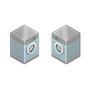
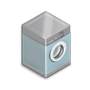
Fix all-enabled mouse dispatch and mobile art contracts

diff --git a/work/patch_mobile_furniture_pack.py b/work/patch_mobile_furniture_pack.py
@@ -654,10 +654,10 @@ VISIBLE_SPECIAL_UPGRADE_ICON_FILES = {
     0x121: "cheat_add_food.png",
     0x122: "cheat_add_food.png",
     0x123: "cheat_no_generation_locks.png",
-    0x124: "cheat_reset_achievements.png",
-    0x125: "cheat_reset_achievements.png",
-    0x126: "cheat_reset_achievements.png",
-    0x127: "cheat_reset_achievements.png",
+    0x124: "MenuBtnTrophy1.png",
+    0x125: "MenuBtnTrophy1.png",
+    0x126: "MenuBtnTrophy1.png",
+    0x127: "MenuBtnTrophy1.png",
     0x128: "cheat_add_coins.png",
     0x129: "cheat_add_coins.png",
     0x12A: "cheat_add_coins.png",
@@ -668,7 +668,7 @@ VISIBLE_SPECIAL_UPGRADE_ICON_FILES = {
     # artwork.  The descriptor must not be aliased through the item id: the
     # store's native image lookup and the added-item draw hook can otherwise
     # resolve the row to an empty cell.
-    0x12E: "cheat_reset_achievements.png",
+    0x12E: "MenuBtnTrophy1.png",
     0x12F: "cheat_fill_house_messes.png",
     0x130: "cheat_fill_yard_weeds.png",
     0x131: "cheat_clean_garden.png",
@@ -10503,24 +10503,29 @@ extern "C" bool __cdecl VF2TryRandomTipHouseHit(
         helper_path.write_text(helper_text.rstrip() + "\n", encoding="ascii")
 
     helper_sym = obj.append_undefined_symbol("_VF2TryRandomTipHouseHit")
-    # push y, x, this; call helper; consume the arguments.  A true result
-    # jumps to the existing stock "return true" epilogue at +0xB2.
+    # The stock point arguments are already on the stack and ECX contains the
+    # ToolTray singleton at this insertion point.  Preserve ECX across the
+    # cdecl helper so the native ToolTray dispatch receives its original this
+    # pointer on the false path.  A true result jumps to the existing stock
+    # "return true" epilogue at +0xB2.
     payload = bytearray(
+        b"\x51"               # preserve ToolTray this
         b"\xFF\x75\x0C"       # push [ebp+0C] (screen y)
         b"\xFF\x75\x08"       # push [ebp+08] (screen x)
         b"\x56"               # push esi (this)
         b"\xE8\x00\x00\x00\x00"
         b"\x83\xC4\x0C"
+        b"\x59"               # restore ToolTray this
         b"\x84\xC0"
         b"\x74\x05"           # false: continue stock path
         b"\xE9\x00\x00\x00\x00"  # true: stock return-true epilogue
     )
     obj.insert_section_bytes(sym.section, insert_off, bytes(payload))
-    obj.append_relocation(sym.section, insert_off + 8, helper_sym, IMAGE_REL_I386_REL32)
+    obj.append_relocation(sym.section, insert_off + 9, helper_sym, IMAGE_REL_I386_REL32)
     # The insertion shifts the old +0xB2 target by len(payload), so the
     # relative displacement remains old_return - insertion_site.
     jmp_disp = sym.value + 0xB2 - insert_off
-    struct.pack_into("<i", obj.buf, sec.raw_ptr + insert_off + 20, jmp_disp)
+    struct.pack_into("<i", obj.buf, sec.raw_ptr + insert_off + 22, jmp_disp)
     obj.write(PATCHED / "theMainScene.obj")
     manifest["random_tip_bottom_house"] = {
         "status": "patched",
@@ -10531,7 +10536,7 @@ extern "C" bool __cdecl VF2TryRandomTipHouseHit(
         "screen_rect_formula": "x=[this+0xA8]+relative; y=[this+0x94]-[this+0x8C]-163+relative",
         "function": "?HandleMouseDown@theMainScene@@IAE?B_NUldwPoint@@@Z",
         "insert_offset": "0x79",
-        "stock_continuation": "false falls through to native HandleMouseDown; true jumps to its existing return-true epilogue",
+        "stock_continuation": "false restores ToolTray ECX and falls through to native HandleMouseDown; true restores ECX then jumps to its existing return-true epilogue",
         "portrait_control_id1_untouched": True,
         "stock_control_id1_untouched": True,
         "string_id_first": "0x09E3",
@@ -12114,14 +12119,14 @@ static void VF2DrawOldestPersonCounter() {
     }
     unsigned int age =
         internalAge / kVF2OldestPersonAgeUnitsPerDisplayedYear;
-    char label[32] = "Oldest: ";
+    char label[32] = "Oldest Villager: ";
     char digits[8];
     int digitCount = 0;
     do {
         digits[digitCount++] = (char)('0' + age % 10);
         age /= 10;
     } while (age != 0 && digitCount < 8);
-    int labelLength = 8;
+    int labelLength = 17;
     while (digitCount > 0) {
         label[labelLength++] = digits[--digitCount];
     }
@@ -14907,6 +14912,10 @@ def patch_graphics_manager(manifest):
             if ENABLE_MOBILE_RENOVATIONS
             else 0,
             "descriptors": mobile_renovation_desc_manifest,
+            # The mobile store consumes these same full-room descriptors at
+            # the native thumbnail scale; room rendering remains 1.0f.
+            "store_icon_scale": 0.12,
+            "store_icon_descriptor_range": "0x56B-0x579",
             "runtime_asset_export": "coordinator-owned; descriptors use Images/MobileRenovations/*.png",
         },
         "holiday_ornament_collection_images": {
@@ -17237,7 +17246,7 @@ def patch_lifetime_generation_counter(manifest):
         "update": "records the highest raw age observed by longevity award and load reconciliation routes",
         "legacy_migration": "existing saves seed from the oldest currently loaded qualifying villager; deceased history before this build cannot be reconstructed",
         "goals_screen": {
-            "label": "Oldest: N",
+            "label": "Oldest Villager: N",
             "helper": "_VF2DrawLifetimeGenerationCounter",
             "position": [100, 42],
             "opposite": "Generation: N at x=760",
@@ -23457,6 +23466,14 @@ def validate_mobile_renovation_renderer_contract(manifest):
             raise RuntimeError("Mobile renovation image descriptor count drifted")
         if len(descriptors.get("descriptors", [])) != MOBILE_RENOVATION_IMAGE_COUNT:
             raise RuntimeError("Mobile renovation image descriptors are incomplete")
+        if descriptors.get("store_icon_scale") != 0.12:
+            raise RuntimeError("Mobile renovation store icon scale drifted from native 0.12f")
+        if descriptors.get("store_icon_descriptor_range") != "0x56B-0x579":
+            raise RuntimeError("Mobile renovation store icon descriptor range drifted")
+        store_helper_path = PATCHED / "vf2_special_upgrade_effects.cpp"
+        store_helper_text = store_helper_path.read_text(encoding="ascii") if store_helper_path.is_file() else ""
+        if "VF2GetAddedStoreIconScale" not in store_helper_text or "0.12f" not in store_helper_text:
+            raise RuntimeError("Mobile renovation store icon draw scale is not statically proven")
         runtime_dir = OUT / "Images" / "MobileRenovations"
         missing = [name for name in MOBILE_RENOVATION_ART_FILES if not (runtime_dir / name).is_file()]
         if missing:

diff --git a/work/test_patch_mobile_furniture_pack.py b/work/test_patch_mobile_furniture_pack.py
@@ -52,22 +52,40 @@ class MobileFurnitureCatalogTests(unittest.TestCase):
                 self.assertIn("raw + 0x94", helper)
                 self.assertIn("raw + 0x8C", helper)
                 self.assertNotIn("invisiblePortraitButton", helper)
+                self.assertNotIn("_VF2HandleActionBarTipsClick", helper)
 
                 obj = CoffObject(temp / "theMainScene.obj")
                 sym = obj.symbol("?HandleMouseDown@theMainScene@@IAE?B_NUldwPoint@@@Z")
                 sec = obj.section(sym.section)
-                patched = bytes(obj.buf[sec.raw_ptr + sym.value + 0x79 : sec.raw_ptr + sym.value + 0x79 + 24])
-                self.assertEqual(patched[:7], bytes.fromhex("FF 75 0C FF 75 08 56"))
-                self.assertEqual(patched[7], 0xE8)
-                self.assertEqual(patched[15:19], bytes.fromhex("84 C0 74 05"))
-                self.assertEqual(patched[19], 0xE9)
+                patched = bytes(obj.buf[sec.raw_ptr + sym.value + 0x79 : sec.raw_ptr + sym.value + 0x79 + 26])
+                self.assertEqual(patched[:8], bytes.fromhex("51 FF 75 0C FF 75 08 56"))
+                self.assertEqual(patched[8], 0xE8)
+                self.assertEqual(patched[16:20], bytes.fromhex("59 84 C0 74"))
+                self.assertEqual(patched[20], 0x05)
+                self.assertEqual(patched[21], 0xE9)
+                self.assertEqual(
+                    bytes(obj.buf[sec.raw_ptr + sym.value + 0x93 : sec.raw_ptr + sym.value + 0x99]),
+                    bytes.fromhex("E8 00 00 00 00 84"),
+                )
                 self.assertIn("_VF2TryRandomTipHouseHit", obj.symbol_by_name)
+                self.assertNotIn("_VF2HandleActionBarTipsClick", obj.symbol_by_name)
 
             generator_source = Path(patcher.__file__).read_text(encoding="utf-8")
             self.assertIn("write_outfit_store_helpers(manifest)\n    # The tiny house", generator_source)
             self.assertIn("patch_main_scene_random_tip_click(manifest)", generator_source)
         finally:
             patcher.PATCHED = old_patched
+
+    def test_no_ai_sock_icon_uses_one_washer_and_trophy_rows_keep_stock_icon(self):
+        builder = (Path(patcher.__file__).with_name("build_no_ai_icons.py")).read_text(encoding="utf-8")
+        self.assertIn("def single_washer()", builder)
+        self.assertIn("frame_width = sheet.width // 2", builder)
+        self.assertIn('"cheat_no_sock_pile.png": single_washer()', builder)
+        for item_id in (0x124, 0x125, 0x126, 0x127, 0x12E):
+            self.assertEqual(
+                patcher.VISIBLE_SPECIAL_UPGRADE_ICON_FILES[item_id],
+                "MenuBtnTrophy1.png",
+            )
 
     def test_mobile_sound_assets_are_local_and_hash_pinned(self):
         source_dir = patcher.MOBILE_SOUND_ASSET_SOURCE_DIR
@@ -2219,6 +2237,10 @@ class MobileRenovationArtTests(unittest.TestCase):
                         row["icon_file"],
                     )
 
+                generator = Path(patcher.__file__).read_text(encoding="ascii")
+                self.assertIn("VF2GetAddedStoreIconScale", generator)
+                self.assertIn('"store_icon_scale": 0.12', generator)
+
                 curtains_by_art = {
                     "tp233_sw_bathroom_black.png": "shower_curtain_closed_black.png",
                     "tp233_sw_bathroom_blue_marble.png": "shower_curtain_closed_blue.png",
@@ -2416,6 +2438,10 @@ class MobileRenovationArtTests(unittest.TestCase):
                     "1.0f; anchorX - worldX;",
                     encoding="ascii",
                 )
+                (patcher.PATCHED / "vf2_special_upgrade_effects.cpp").write_text(
+                    "VF2GetAddedStoreIconScale 0.12f;",
+                    encoding="ascii",
+                )
                 for name in patcher.MOBILE_RENOVATION_ART_FILES:
                     shutil.copy2(patcher.MOBILE_RENOVATION_ART_SOURCE_DIR / name, runtime_dir / name)
                 manifest = {
@@ -2427,6 +2453,8 @@ class MobileRenovationArtTests(unittest.TestCase):
                         "mobile_renovation_images": {
                             "image_count": patcher.MOBILE_RENOVATION_IMAGE_COUNT,
                             "descriptors": [{}] * patcher.MOBILE_RENOVATION_IMAGE_COUNT,
+                            "store_icon_scale": 0.12,
+                            "store_icon_descriptor_range": "0x56B-0x579",
                         }
                     },
                 }
@@ -5433,11 +5461,11 @@ class OutfitStoreMappingTests(unittest.TestCase):
         )
         self.assertEqual(
             patcher.VISIBLE_SPECIAL_UPGRADE_ICON_FILES[0x127],
-            "cheat_reset_achievements.png",
+            "MenuBtnTrophy1.png",
         )
         self.assertEqual(patcher.VISIBLE_SPECIAL_UPGRADE_ICON_ALIASES, {})
         expected_late_icons = {
-            0x12E: "cheat_reset_achievements.png",
+            0x12E: "MenuBtnTrophy1.png",
             0x12F: "cheat_fill_house_messes.png",
             0x130: "cheat_fill_yard_weeds.png",
             0x131: "cheat_clean_garden.png",
@@ -5887,7 +5915,7 @@ class OutfitStoreMappingTests(unittest.TestCase):
         self.assertEqual(reset_rows[0]["item_id"], 0x124)
         self.assertEqual(
             patcher.VISIBLE_SPECIAL_UPGRADE_ICON_FILES[0x124],
-            "cheat_reset_achievements.png",
+            "MenuBtnTrophy1.png",
         )
 
         source = Path(patcher.__file__).read_text(encoding="utf-8")
@@ -6734,7 +6762,7 @@ class CustomAchievementAwardDispatchTests(unittest.TestCase):
                 )
                 self.assertIn("digitCount < 8", source)
                 self.assertIn('"Generation: "', source)
-                self.assertIn('char label[32] = "Oldest: ";', source)
+                self.assertIn('char label[32] = "Oldest Villager: ";', source)
                 self.assertIn("VF2PersistentHealthPlanAndRenovationMask() >> 16", source)
                 self.assertIn("(history & 0xFFFFu) | (boundedAge << 16)", source)
                 self.assertIn("GetWideScreenOffsetX() + 100", source)
@@ -6794,7 +6822,7 @@ class CustomAchievementAwardDispatchTests(unittest.TestCase):
                     source,
                 )
                 self.assertIn("GetWideScreenOffsetX() + 100", source)
-                self.assertIn('char label[32] = "Oldest: ";', source)
+                self.assertIn('char label[32] = "Oldest Villager: ";', source)
 
                 achievement = CoffObject(temp_root / "Achievement.obj")
                 load = achievement.symbol(

diff --git a/work/build_no_ai_icons.py b/work/build_no_ai_icons.py
@@ -41,6 +41,14 @@ def largest_sock_pile() -> Image.Image:
     return strip.crop((strip.width - frame_width, 0, strip.width, strip.height))
 
 
+def single_washer() -> Image.Image:
+    sheet = load("WasherStd.png")
+    # WasherStd is a two-cell horizontal sheet.  The No Sock Pile icon is one
+    # washer, not the complete two-washer furniture strip.
+    frame_width = sheet.width // 2
+    return sheet.crop((0, 0, frame_width, sheet.height))
+
+
 def main() -> None:
     OUT.mkdir(parents=True, exist_ok=True)
     sources = {
@@ -49,7 +57,7 @@ def main() -> None:
         "cheat_fill_yard_weeds.png": weed_icon(),
         "cheat_clean_garden.png": load("GardeningServices_icon.png"),
         "cheat_max_sock_pile.png": largest_sock_pile(),
-        "cheat_no_sock_pile.png": load("WasherStd.png"),
+        "cheat_no_sock_pile.png": single_washer(),
         "cheat_marriage_email.png": load("loveemail.png"),
         "cheat_next_babies_male.png": load("Icon_Baby2.png"),
         "cheat_next_babies_female.png": load("Icon_Baby1.png"),
